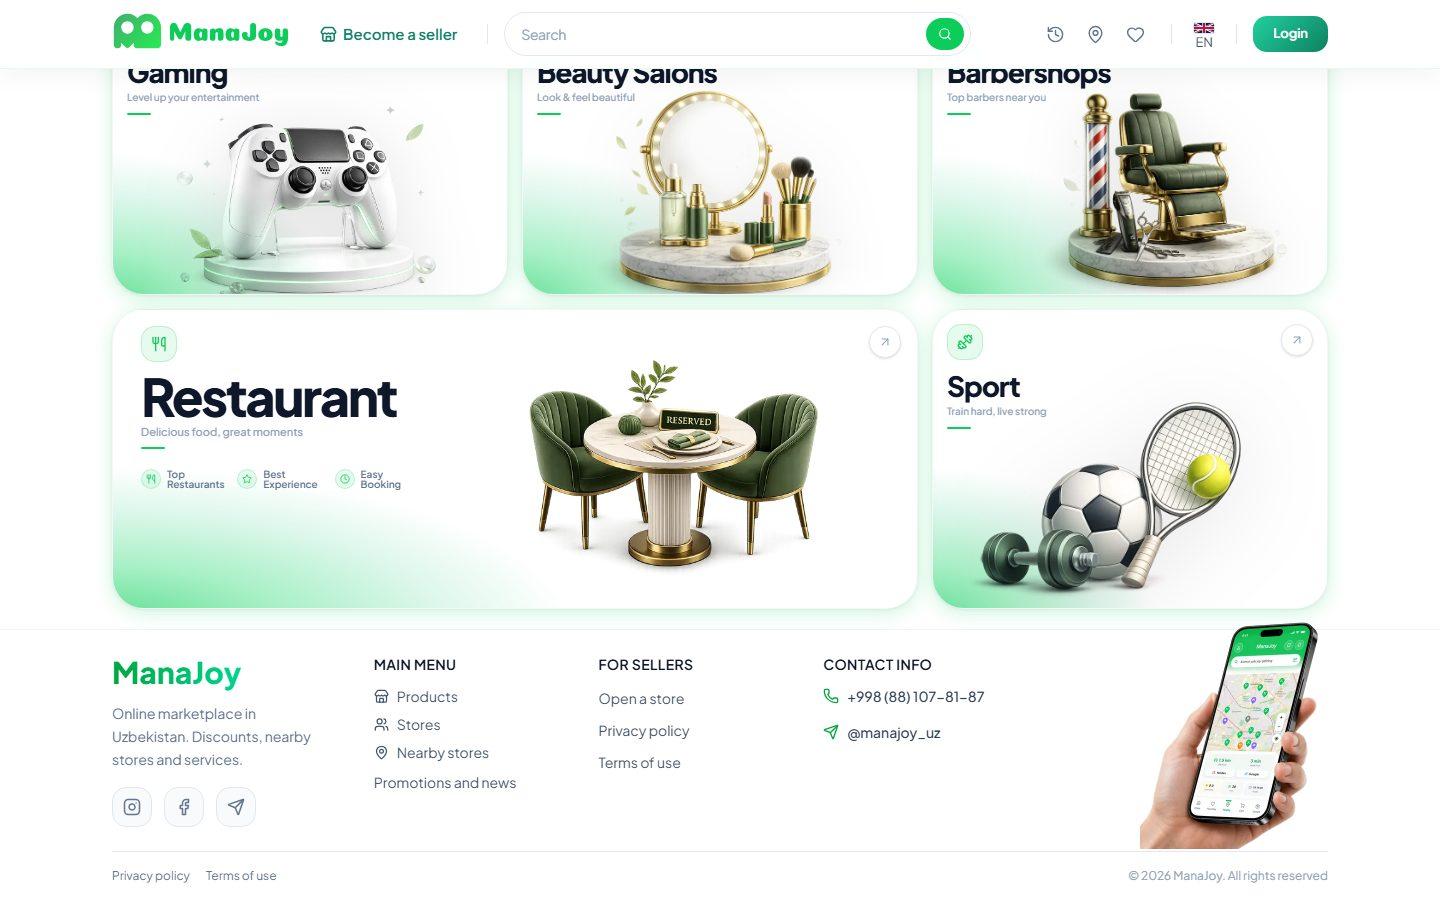
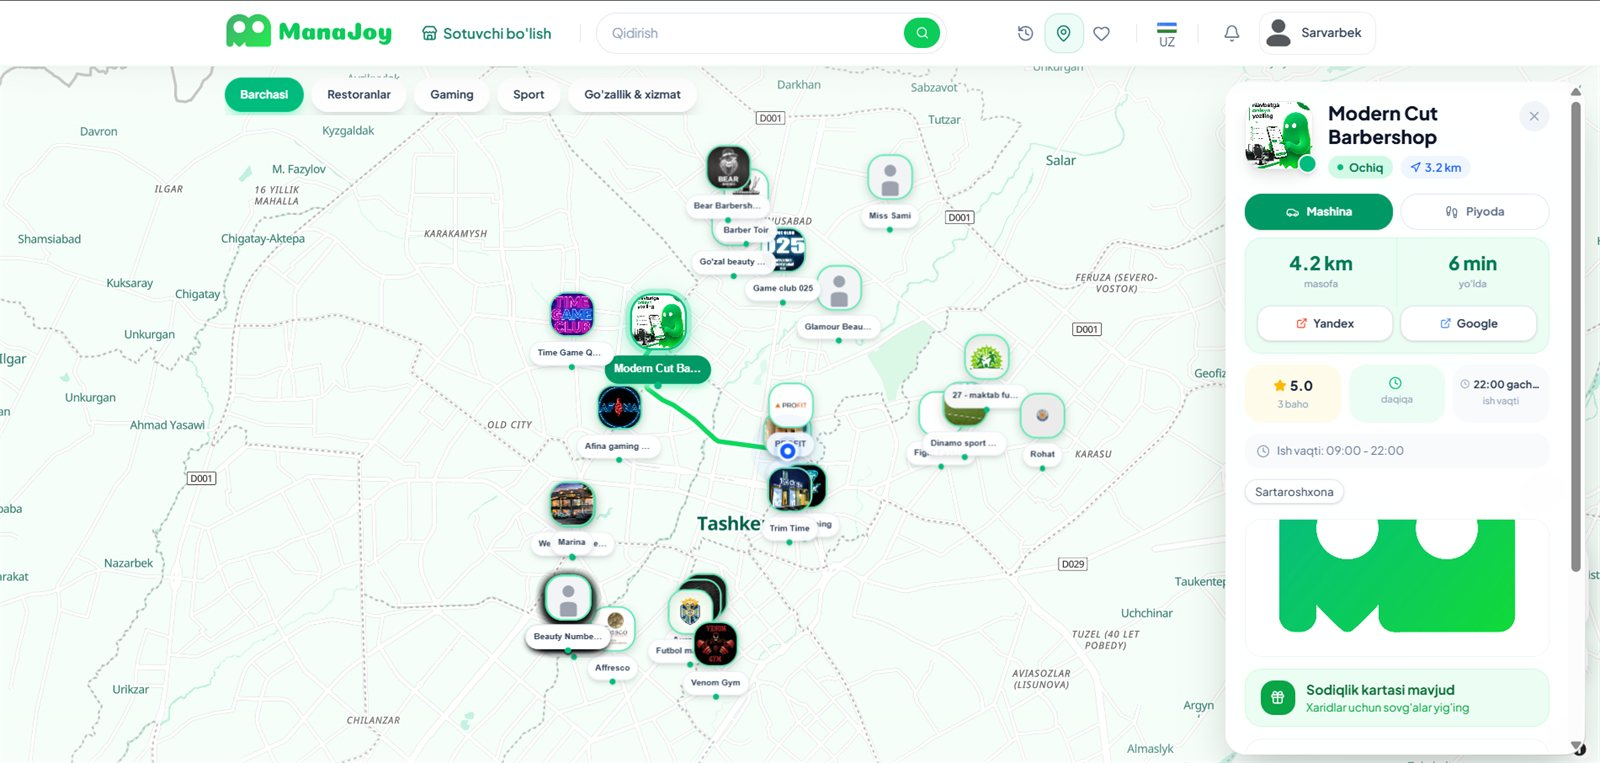
manajoy: real screenshots (2 desktop + 4 mobile)

diff --git a/src/content.ts b/src/content.ts
@@ -27,9 +27,12 @@ export const projects: Project[] = [
     slug: "manajoy",
     title: "ManaJoy",
     images: [
-      { src: "/shots/manajoy-desktop.jpg", device: "desktop" },
+      { src: "/shots/manajoy-desktop-1.jpg", device: "desktop" },
       { src: "/shots/manajoy-desktop-2.jpg", device: "desktop" },
-      { src: "/shots/manajoy-mobile.jpg", device: "mobile" },
+      { src: "/shots/manajoy-mobile-1.jpg", device: "mobile" },
+      { src: "/shots/manajoy-mobile-2.jpg", device: "mobile" },
+      { src: "/shots/manajoy-mobile-3.jpg", device: "mobile" },
+      { src: "/shots/manajoy-mobile-4.jpg", device: "mobile" },
     ],
     tagline: {
       uz: "Onlayn marketplace — chegirmalar, do'konlar va xizmatlar",